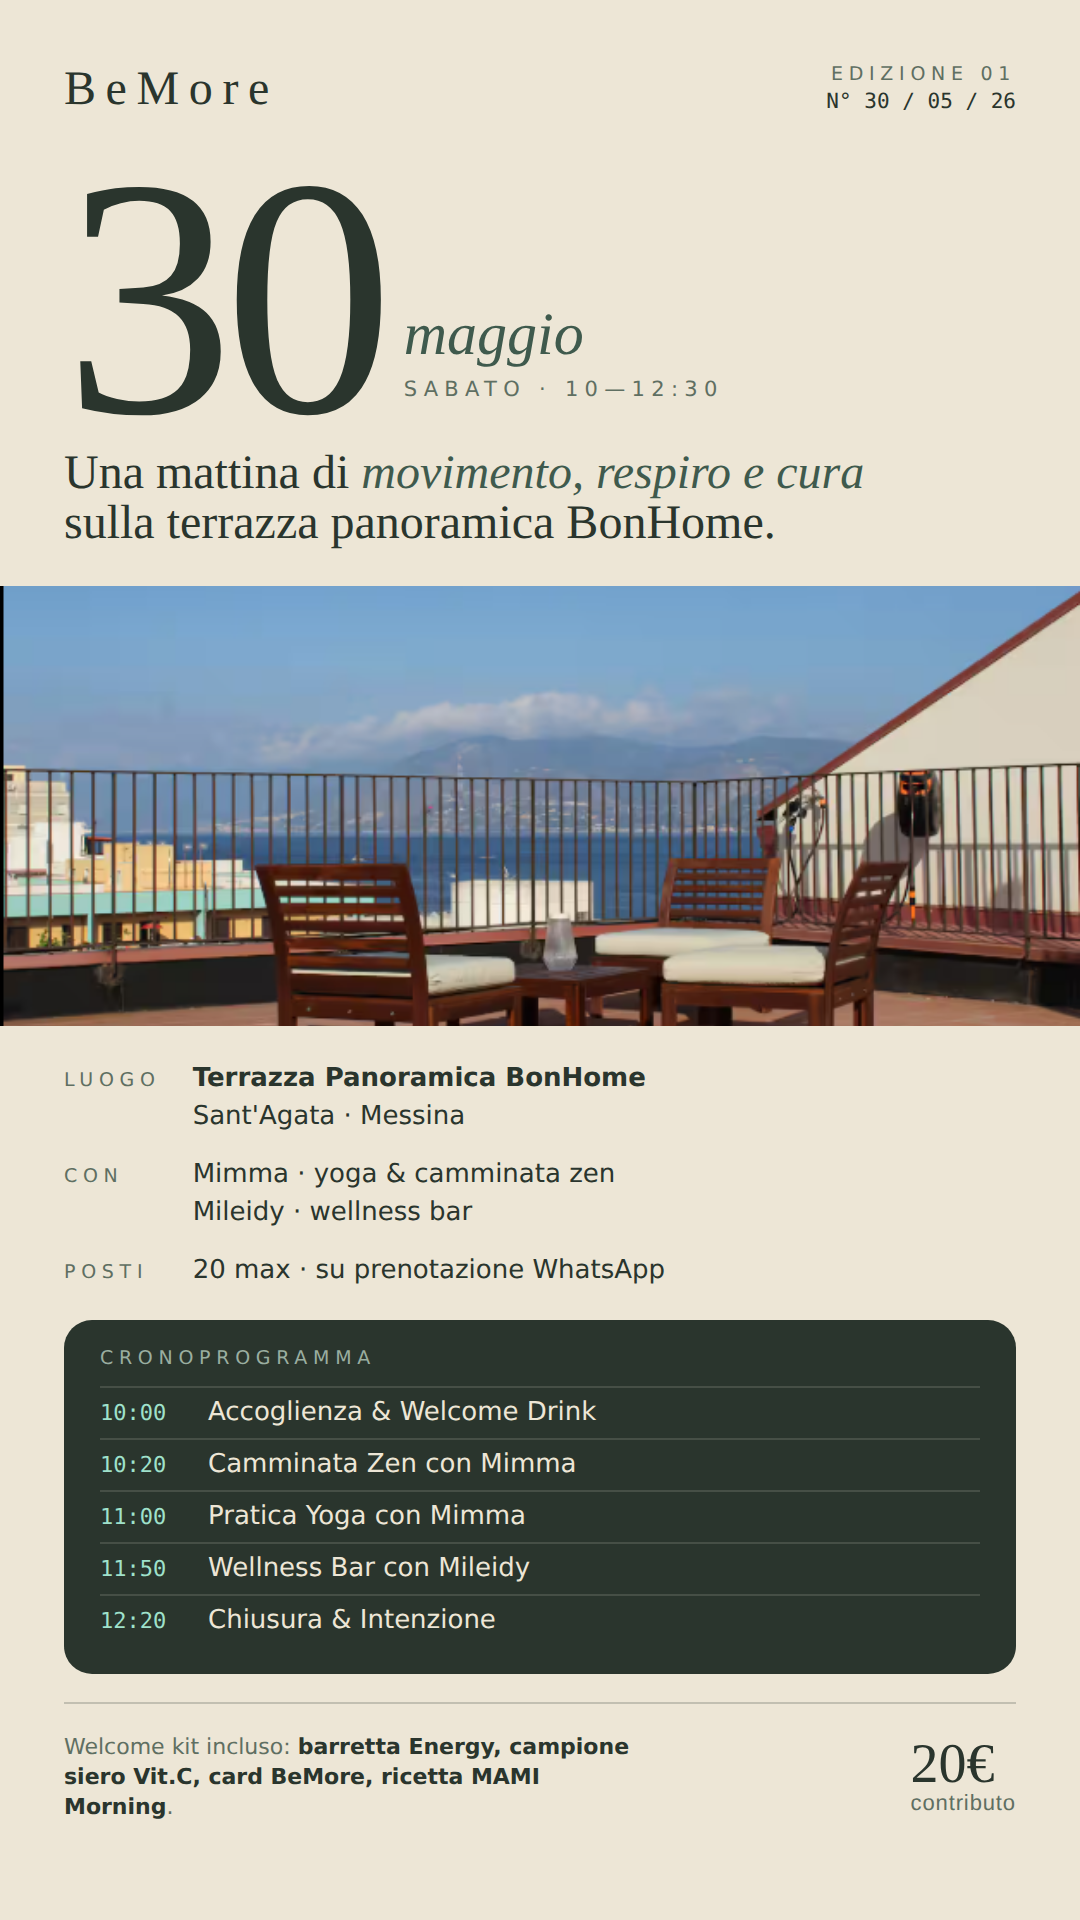
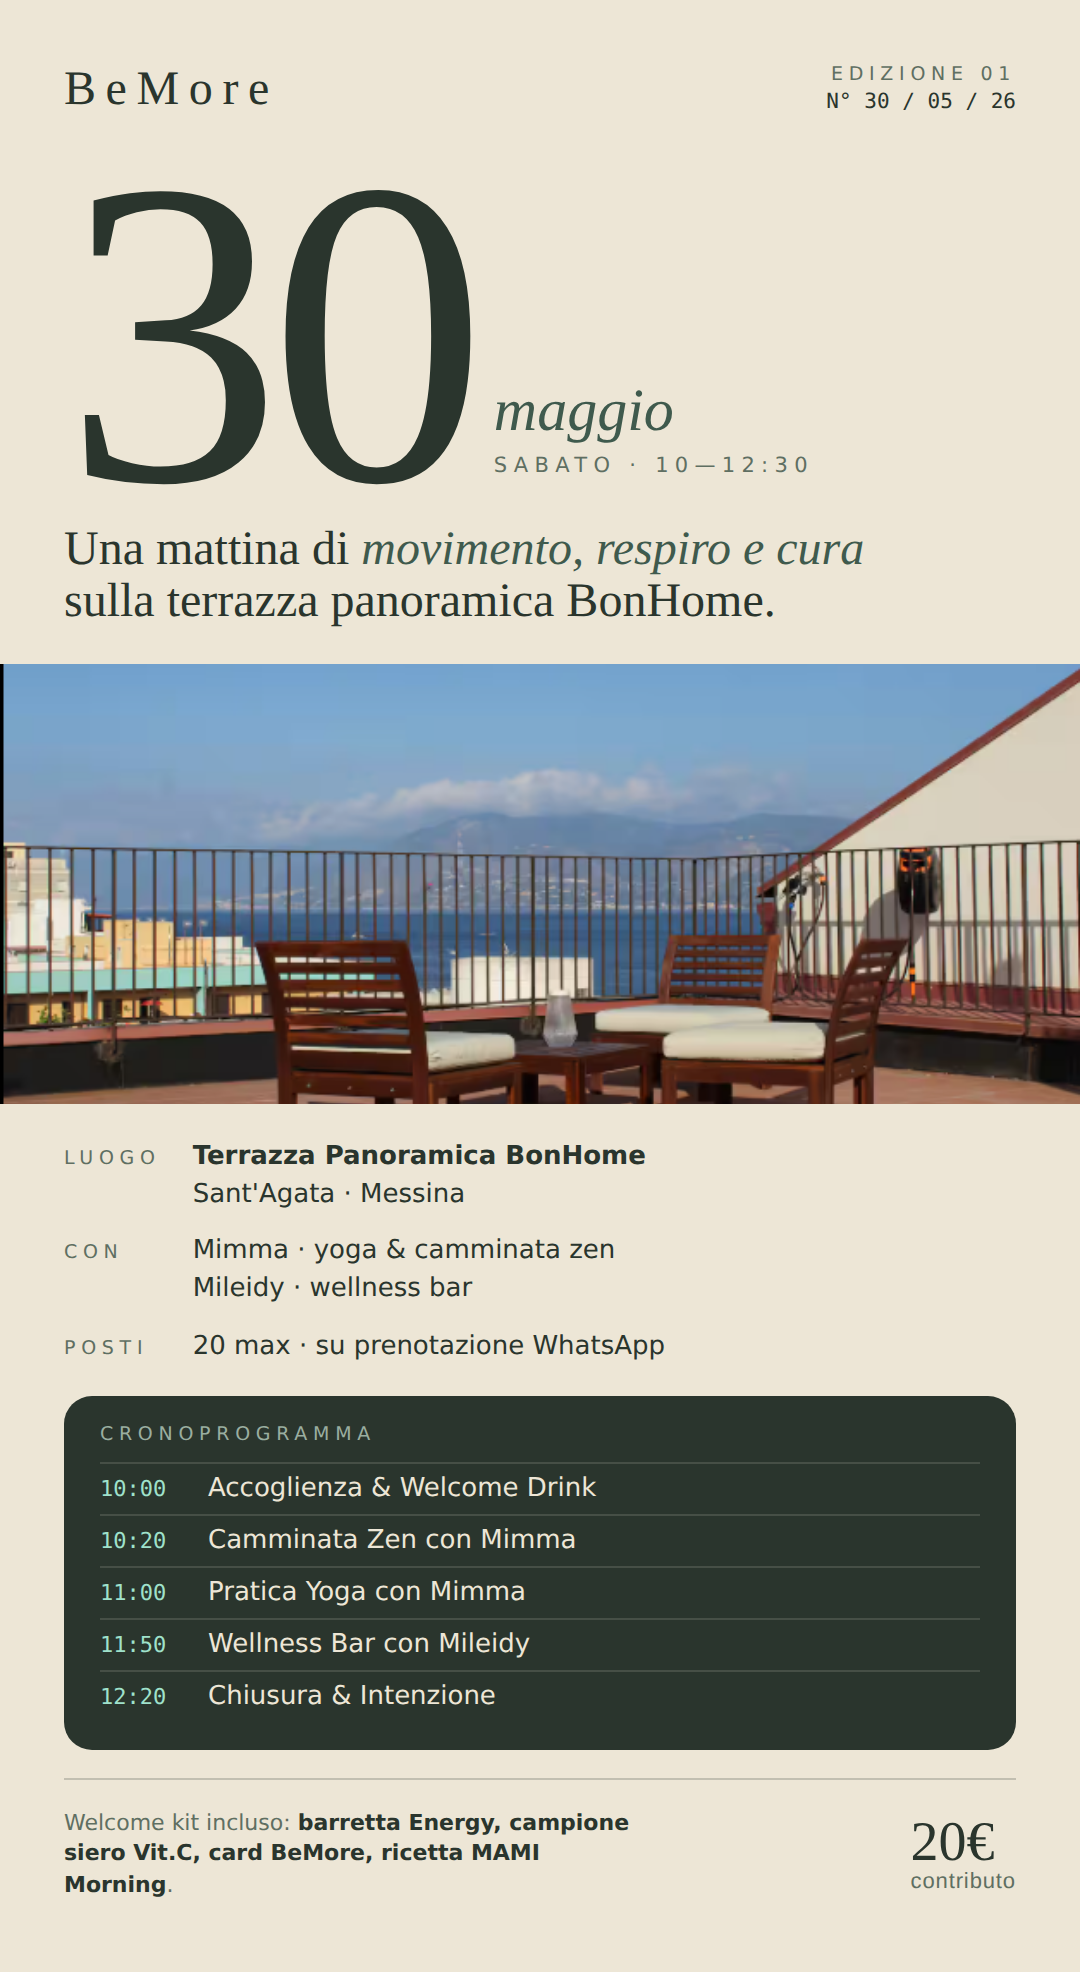
Ripristina dimensione numero data originale (218px)

diff --git a/project/uploads/invito_30maggio_whatsapp.html b/project/uploads/invito_30maggio_whatsapp.html
@@ -35,7 +35,7 @@
   /* BIG DATE */
   .v3-hero { margin-top: 22px; position:relative; }
   .v3-bigdate { display:flex; align-items:flex-end; gap: 10px; }
-  .v3-bigdate .d { font-family:'Italiana', serif; font-size: 170px; line-height: .8; letter-spacing: -0.03em; color:#2A352D; }
+  .v3-bigdate .d { font-family:'Italiana', serif; font-size: 218px; line-height: .8; letter-spacing: -0.03em; color:#2A352D; }
   .v3-bigdate .ms { display:flex; flex-direction:column; padding-bottom: 16px; }
   .v3-bigdate .ms span:first-child { font-family:'Cormorant Garamond', serif; font-style: italic; font-size: 30px; line-height: 1; color:#3F5A4D; }
   .v3-bigdate .ms span:last-child { font-size: 10.5px; letter-spacing:.3em; text-transform:uppercase; margin-top: 6px; color:#5F6F62; }
